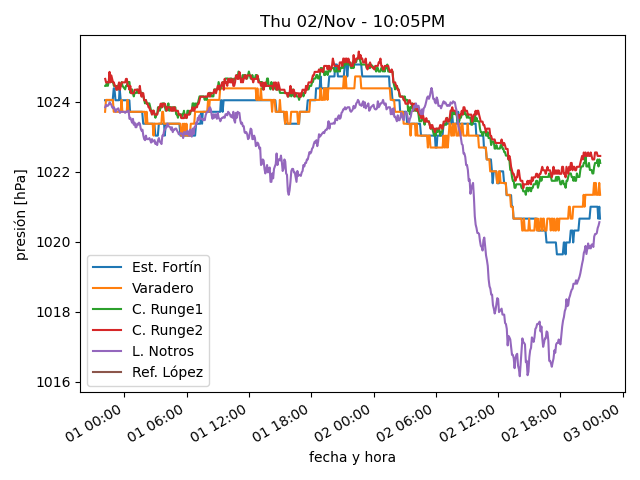
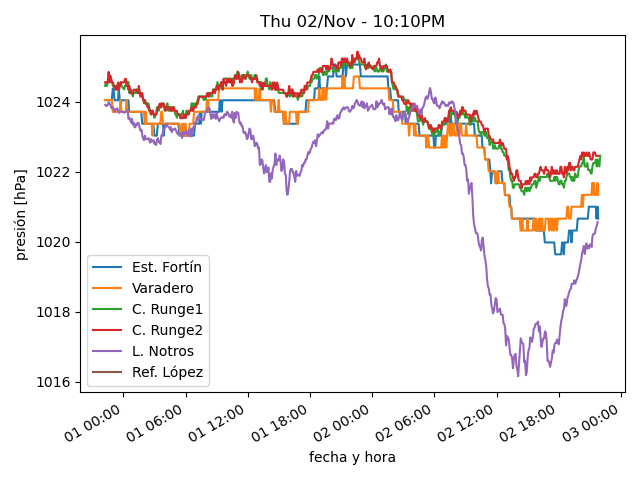
actualiza datos

diff --git a/estaciones/estacion3.html b/estaciones/estacion3.html
@@ -18,7 +18,7 @@
     </tr>
     <tr>
      <td class="stats_data">
-      9:49PM
+      9:59PM
      </td>
     </tr>
     <tr>
@@ -28,22 +28,22 @@
     </tr>
     <tr>
      <td class="stats_data">
-      1.8⁰C
+      2.1⁰C
      </td>
     </tr>
     <tr>
      <td class="stats_data">
-      66.0%
+      67.2%
      </td>
     </tr>
     <tr>
      <td class="stats_data">
-      1010.53hPa
+      1010.74hPa
      </td>
     </tr>
     <tr>
      <td class="stats_data">
-      5.8/8.2 km/hr W
+      3.7/4.6 km/hr NW
      </td>
     </tr>
     <tr>
